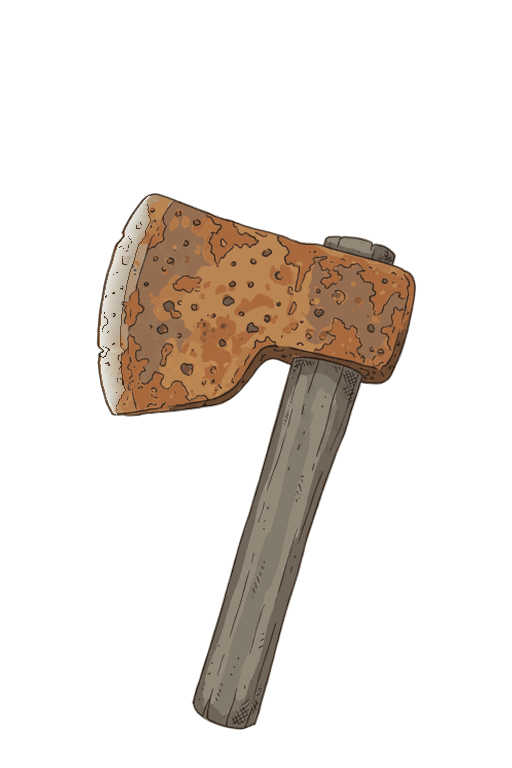
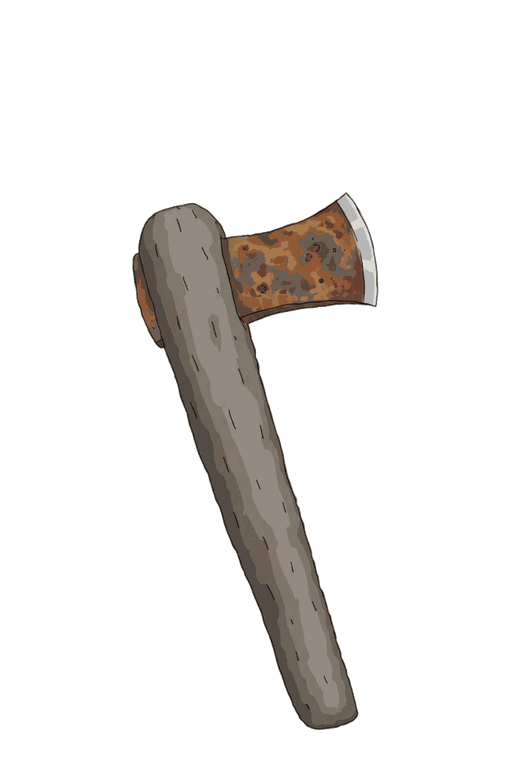
Export Forest Lore v0.1.8 from monorepo
Sync source files; exclude bin/, obj/, lib/, .audit/.

Changed region(s): [[0.1875, 0.25, 0.8125, 0.9688]]

diff --git a/Forest_Lore/Plugin.cs b/Forest_Lore/Plugin.cs
@@ -4,9 +4,13 @@ using CSFFModFramework.Api;
 namespace ForestLore;
 
 /// <summary>
-/// Forest Lore host plugin. The mod ships no Harmony patches and no C#: its places, cards, climbing aids and the
-/// one append-only <c>GameSourceModify</c> patch are all declarative JSON the framework loads
+/// Forest Lore host plugin. The mod ships no Harmony patches and no C#: its places, cards, climbing aids and its
+/// <c>GameSourceModify/</c> patches are all declarative JSON the framework loads
 /// (<c>WorldMap/MapNodes.json</c>, <c>CardData/</c>, <c>InjectImprovementInto.json</c>, <c>GameSourceModify/</c>).
+/// The patches: two append a drop or a drop-chance modifier to a vanilla card (the Peat Bog's Dig Peat Bog Body
+/// find, a Climbing Aid drop-chance modifier on The Shaft's Climb Up success), two give the art-less vanilla Rusty Axe and Blunt Rusty Axe a
+/// picture, and two edit this mod's own clone locations in place (no Clay from the Abandoned Homestead's Clear
+/// actions, 2 Wet Peat Turf per dig at the Mud Springs).
 /// <see cref="ContentModPlugin"/> prints the mod's one startup Info line
 /// ("{PluginName} v{PluginVersion} loaded.", CLAUDE.md "Mod Logging Norms"), so this class adds none.
 /// Plan: Documentation/Design/ForestLore_As_Built.md.
@@ -17,5 +21,5 @@ internal class Plugin : ContentModPlugin
 {
     private const string PluginGuid = "crispywhips.forest_lore";
     public const string PluginName = "Forest Lore";
-    public const string PluginVersion = "0.1.7";
+    public const string PluginVersion = "0.1.8";
 }

diff --git a/Forest_Lore/ROADMAP.md b/Forest_Lore/ROADMAP.md
@@ -1,6 +1,111 @@
-# Roadmap: ForestLore
+# Roadmap: Forest Lore
+Version at time of writing: 0.1.8
+Date: 2026-10-20
+Audit score: 10/10 (`.audit/summary.md` consolidated 2026-10-20; critical-analysis and mod-report both fresh at 0.1.8, code-quality's C# claim re-confirmed current)
 
-Version at time of writing: 0.1.0 (on Nexus page 53, hidden; in the MUM suite as pre-release). The plan was drained and archived on 2026-10-07 to `Documentation/Design/ForestLore_As_Built.md`; no plan is open. This file holds only the plan reconciliation record below.
+## Current State
+
+**Theme**: the forest's own landmarks, ruins and hidden places (Barrow Wood, the Old Battlefield, the Abandoned Homestead, the Mud Springs, Guano Rock, the Rock Shelter and the Sunken Caves) added to the vanilla map, for players who want more to find and read on the paper map without new items to manage. It hands out only vanilla cards.
+
+**Content**: 0 items / 0 blueprints / 24 structures (CT2 location cards, `CardData/Location/`) and 3 improvements (CT10, `CardData/EnvImprovement/`) / 0 perks / 27 custom images (25 card pictures plus `FL_AxeRusty` and `FL_AxeRustyBlunt` for two artless vanilla axes). Also 9 map nodes, 13 improvement injections and 6 `GameSourceModify` patches.
+
+**Stability**: 10/10, 0 CRITICAL, 0 design gaps, 0 open warnings (6 pre-flight warnings all adjudicated not-a-defect this run: C8 host-only plugin, F26 x3 intentional map-hidden chambers, M11 x2 axe art referenced via GameSourceModify). Critical-analysis and mod-report are now fresh at 0.1.8; three tracker rows pending, all old-save-fixture blocked.
+
+**Open work**: no open retrospectives (`Documentation/Retrospectives/INDEX.md` has no Forest Lore row). No open plan: both plans are built and archived (`Documentation/Design/ForestLore_As_Built.md`, `Documentation/Design/ForestLore_Balance_And_Niche_As_Built.md`). The 0.1.8 Deer Lick encounter fix is harness-confirmed (T2.848 PASS), and T2.839/T2.841 now read PASS. Pending tracker rows: T2.847 (clone clay/peat parity), T2.1746 (Sunken Lake eel stock on an old save), T2.1748 (Homestead decay/repair/capacity), all needing a 0.1.4/0.1.6 save that visited the site, a fixture that exists on no rig.
+
+**Framework compliance**: a 21-line `ContentModPlugin` host with the CSFFModFramework SoftDependency (2.28.0 or later). It uses no Tier 2 C# services because it has no C# behaviour; everything is framework data (MapNodes, ConnectionGates, InjectImprovementInto, GameSourceModify). No `DropCollectionGuardPatch`, no Harmony, no `ModLoaderVerison`.
+
+---
+
+## Phase 0: Stabilize
+
+Skipped: audit score 10/10, no open retrospectives, no open CRITICAL or warning. The fresh 0.1.8 critical-analysis and mod-report retired the previous run's audit-freshness debt.
+
+---
+
+## Phase 1: Foundation
+
+> Always do this phase. These are table-stakes for a healthy, maintainable mod.
+
+| Item | Type | Priority | Complexity |
+|------|------|----------|------------|
+| Build the old-save fixture that T2.847, T2.1746 and T2.1748 need (a 0.1.4/0.1.6 save that already visited the Homestead, Sunken Lake and the clone sites), then record them through `/playthrough-test-plan`; until it exists the three rows stay fixture-blocked and cannot advance | Verification debt | P1 | Complex |
+| Version hygiene: ModInfo.json, `Plugin.cs` and README are all 0.1.8 (re-read 2026-10-20); keep them in step on the next bump with `/update-mod-version` | Version hygiene | P1 | Quick |
+| Localization: SimpEn.csv and SimpCn.csv hold the same 243 keys, Chinese parity CLEAN (re-read 2026-10-20); keep the same-commit parity on every new string | Localization | P1 | Quick |
+
+---
+
+## Phase 2: Core Expansion
+
+No open plan holds new Forest Lore content, and the audits surface none. Any new site belongs in a new `Documentation/Plans/ForestLore/MASTER_PLAN.md`, checked first against the Considered tables of both As-Built records (they rule out, with reasons, Gnome Figurines at the Ossuary, a timed mud-warming action, an env-tag-lure or new-species Deer Lick, a scrapeable clay lick and `StripAllInheritedDrops` on the clones).
+
+### Balance the declared placeholders
+**What**: settle the Deer Lick odds (about 3 in 10 doe, 3 in 20 stag), the 6 percent relic finds at the Ossuary and the Bog Body, and the Stress -10 reading calm, all labelled placeholders in CHANGELOG 0.1.6/0.1.7.
+**Why**: these are the only Forest Lore numbers no balance pass has judged against vanilla.
+**Requires**: the method of `Documentation/Design/ForestLore_Balance_And_Niche_As_Built.md` section 0 (ledger rows and an owner decision page). T2.848 is now PASS, so the Deer Lick's behaviour is confirmed and only its values remain to tune.
+**Complexity**: Medium
+
+---
+
+## Phase 3: Integration & Depth
+
+No cross-mod hook is surfaced: the 2026-10-12 pre-flight found 0 foreign structural references and 0 tag collisions across 17 mods, and `Documentation/Interop_Registry.md` has no Forest Lore row.
+
+---
+
+## Phase 4: Polish
+
+| Item | What | Complexity |
+|------|------|------------|
+| Custom art for the Weeping Pine | `fl_resin_pine` draws the vanilla `TreePine` sprite; `/create-image`, `/process-card-art`, then swap `CardImageWarpData` to the new PNG name (type 3) | Quick |
+| Custom art for the Deer Lick | `fl_deer_lick` draws the vanilla `Tracks` sprite; same steps | Quick |
+| Rusty Axe picture review | `FL_AxeRusty` was derived from `FL_AxeRustyBlunt` by painting a honed edge (no OpenArt in that session; sidecar `.art/FL_AxeRusty.json`); regenerate through `/create-image` if the `/review-art` gallery rejects it | Quick |
+| Chamber item persistence | framework 2.28.0's keep-the-item fix is unseen in Forest Lore's chambers (none of T2.836 to T2.838 leaves an item on a chamber board); README's Known limitations says so. A tracker row that leaves an item in a chamber across a reload would close it | Quick |
+
+### Not added: the Gnome Figurines (checked 2026-10-17)
+
+The two Gnome Figurines (`TuskCarving_GnomeMale` 0c9ab5207f7b41b4896e2f9a3f86bc9f, `TuskCarving_GnomeFemale` 54c31356f6f93794fb964d028eae81a0) that `Documentation/Research/ForestLore/wave0-relic-finds.md` recommended for the Ossuary draw no art: `extract_vanilla_sprites.py card` on EA 0.69c (Python 3.13, UnityPy; control RusticTable -> Table) reports no Sprite reference for either. They are not added; adding them would mean shipping two art patches for a flavour find.
+
+---
+
+## Long-term Vision
+
+> Where this mod should be at v1.0.
+
+Forest Lore's natural endpoint is a finished set of verified, vanilla-balanced places: every site confirmed in a running game, every placeholder value tuned, every card with its own picture, and then maintenance mode. Its role is exploration and small, lore-flavoured rewards, not a new production chain, so 1.0 is reached by closing verification and polish rather than by adding systems. With the Deer Lick fix landed and confirmed, the remaining distance to 1.0 is the three old-save migration checks, the placeholder tuning pass, and four polish items.
+
+**Potential major additions** (not yet justified - revisit after Phase 2):
+- None surfaced by the audits; the ruled-out ideas live in the two As-Built Considered tables.
+
+Any of these worth building belongs in the mod's plan under `Documentation/Plans/ForestLore/` (or its Considered table, with the reason, if it is not); never create a stub under `Documentation/Ideas/`, which keeps no backlog since 2026-10-01.
+
+---
+
+## Maintenance Calendar
+
+| Trigger | Action |
+|---------|--------|
+| After any new content phase | Run `/audit-mod ForestLore` and update this roadmap |
+| Game version update | Run `/update-mod-version`, check CLAUDE.md for EA version notes, re-run `/diagnose-log`; re-check the vanilla indices the `GameSourceModify` patches address (gated by `ForestLore-BalanceGates` B13 and `ForestLore-BogBodyPatch`) |
+| After fixing a critical issue | Run `/critical-analysis ForestLore` to verify the fix |
+| After Phase 2 complete | Run `/export-to-repo ForestLore` and bump the version |
+
+---
+
+## Skill Cheatsheet for This Mod
+
+```
+/audit-mod ForestLore         - full health check, updates .audit/
+/critical-analysis ForestLore - adversarial review
+/code-quality ForestLore      - C# review (a bare ContentModPlugin host)
+/build-mod ForestLore         - build Release DLL
+/deploy-mods ForestLore       - build + deploy to game
+/update-mod-version ForestLore <ver> - bump version in all 3 files
+/export-to-repo ForestLore    - push to public repo
+/create-image ForestLore <card> - card art for the two vanilla-sprite placeholders
+```
+
+---
 
 ## Plan Reconciliation Log
 
@@ -23,14 +128,3 @@ Version at time of writing: 0.1.0 (on Nexus page 53, hidden; in the MUM suite as
 - **Disposition:** ARCHIVE - the plan moved to `Documentation/Design/ForestLore_Balance_And_Niche_As_Built.md` with section numbers unchanged, the pack deleted and its awaiting list folded into the archive header; the ForestLore plan folder is empty again.
 - **Evidence:** `Development_Tools/Tests/ForestLore-BalanceGates.Tests.ps1` 13 of 13 and `ForestLore-NicheContent.Tests.ps1` 24 of 24 (each with watched-red copies), `Art-ArtlessVanillaGrant` red on the unpatched Rusty Axe and green after; `dotnet build -c Release` clean. No code was run in a game.
 - **Verification debt:** T2.1745 to T2.1748, T2.843 to T2.849 (all pending).
-
-## Art debt
-
-- The Weeping Pine (`fl_resin_pine`) uses the vanilla `TreePine` sprite until bespoke art is generated; swap `CardImageWarpData` to the new PNG name (type 3) then.
-
-- The Deer Lick (`fl_deer_lick`, 0.1.7) uses the vanilla `Tracks` sprite until bespoke art is generated; swap `CardImageWarpData` to the new PNG name (type 3) then.
-- The Rusty Axe picture (`FL_AxeRusty`, 0.1.7) was derived from `FL_AxeRustyBlunt` by painting a honed edge (no OpenArt in that session; sidecar `.art/FL_AxeRusty.json`); regenerate through `/create-image` if the gallery review rejects it.
-
-### Not added: the Gnome Figurines (checked 2026-10-17)
-
-The two Gnome Figurines (`TuskCarving_GnomeMale` 0c9ab5207f7b41b4896e2f9a3f86bc9f, `TuskCarving_GnomeFemale` 54c31356f6f93794fb964d028eae81a0) that `Documentation/Research/ForestLore/wave0-relic-finds.md` recommended for the Ossuary draw no art: `extract_vanilla_sprites.py card` on EA 0.69c (Python 3.13, UnityPy; control RusticTable -> Table) reports no Sprite reference for either. They are not added; adding them would mean shipping two art patches for a flavour find.

diff --git a/Forest_Lore/README.md b/Forest_Lore/README.md
@@ -1,6 +1,6 @@
 # Forest Lore
 
-**Version:** 0.1.7
+**Version:** 0.1.8
 **Author:** Jared
 **Requires:** CSFFModFramework 2.28.0 or later
 **Status:** pre-release, early development.
@@ -139,6 +139,7 @@ Three chambers lie in a line, reachable only through the Cave Mouth and not draw
 ## Version history
 
 Full notes are in CHANGELOG.md.
+- **0.1.8:** hunting a deer at the Deer Lick now starts the fight.
 - **0.1.7:** a Deer Lick at the Mud Springs, no clay from clearing the Homestead, two peat a dig at the Mud Springs, a picture for the Rusty Axe.
 - **0.1.6:** the four reading actions calm you once a day, a Weeping Pine at Barrow Wood, rare relic finds at the Ossuary and the Bog Body, the Cave Lake's winter text, a picture for the Blunt Rusty Axe.
 - **0.1.5:** balance pass: fewer bronze nuggets, a stocked eel lake, a gentler Mud Volcano, a Homestead that decays and stores less, three Mud Piles a scoop.

diff --git a/Forest_Lore/CHANGELOG.md b/Forest_Lore/CHANGELOG.md
@@ -1,5 +1,15 @@
 # Changelog
 
+## [0.1.8] - 2026-10-20
+
+### Changed
+
+- **New pictures for the Rusty Axe and the Blunt Rusty Axe.** Both are now the base game's metal axe gone to rust: the Blunt Rusty Axe has a dulled, chipped edge, and the Rusty Axe a freshly sharpened bright edge.
+
+### Fixed
+
+- **Hunting a deer at the Deer Lick now starts the fight.** When a doe or a stag came down to the lick, choosing **Hunt it** closed the sighting and nothing happened: no fight opened. The lick now brings on the base game's deer encounter directly, so the sighting you see is the encounter's own "You see a Doe!" (or Stag) with **Hunt it!** and **Leave it alone**, and hunting opens the normal fight with the world's own doe or stag. Leaving it alone works as before. The odds, the salt stock and the "Nothing came down to the lick." result are unchanged.
+
 ## [0.1.7] - 2026-10-18
 
 ### Added

diff --git a/Forest_Lore/.art/RUN_LOG.md b/Forest_Lore/.art/RUN_LOG.md
@@ -53,3 +53,5 @@
 | 2026-10-12 | FL_RuinedHomestead (owner gallery rework) | nano-banana-2 image2image | 1K | 20 | 5oUy7oxRLI5lf8BFWgTV | OK |
 | 2026-10-12 | FL_Petrospheres (owner gallery rework) | nano-banana-2 image2image | 1K | 20 | jmTSsmB7eXoYjhvQOwsj | OK |
 | 2026-10-15 | FL_AxeRustyBlunt | nano-banana-2 image2image | 1K | 20 | fcAyvsilCqs1JYd4vx3k | OK |
+| 2026-10-21 | FL_AxeRustyBlunt (owner gallery rework: vanilla Axe_Iron as subject reference, rusted and blunted; Axe_Stone style) | nano-banana-2 image2image | 1K | 20 | u07gaCt3brrtaY2qdX2p | OK |
+| 2026-10-21 | FL_AxeRusty (owner gallery rework: vanilla Axe_Iron as subject reference, rusted with a honed edge; pair of FL_AxeRustyBlunt) | nano-banana-2 image2image | 1K | 20 | 0TgkTOkj12BWt8QKdzEN | OK |
